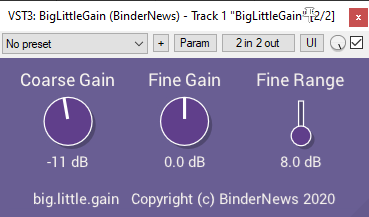
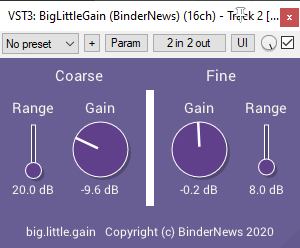
Update images and add more info about the new slider in the readme.

diff --git a/README.md b/README.md
@@ -11,12 +11,13 @@ gain knob is useful for volume effects, where you only want to change the volume
 I wanted to make a neat volume effect, but all the compressors I have go from -70 dB to 30 dB,
 or have equally large ranges. When I wanted a sine wave that went from +2 to -2 dB, it looked like a flat line.
 
-Here's a demo of Big.Little.Gain where I have a sine wave automating the fine gain, and a
-decrease on the coarse gain because the plugin is loud.
+Here's a demo of Big.Little.Gain where I have a sine wave automating the fine gain and a linear
+envelope on the coarse gain to slowly increase the volume of the sound. This give an interesting
+"pumping" effect while fading in the sound, which is harder to achieve using other volume plugins.
 
 ![Demo 1](./images/demo-1.gif)
 
-The Fine Range slider controls the minimum and maximum values of Fine Gain, so you can get those
+The range sliders control the minimum and maximum values of each gain knob so you can get more
 precise automation clips.
 
 # Installation
